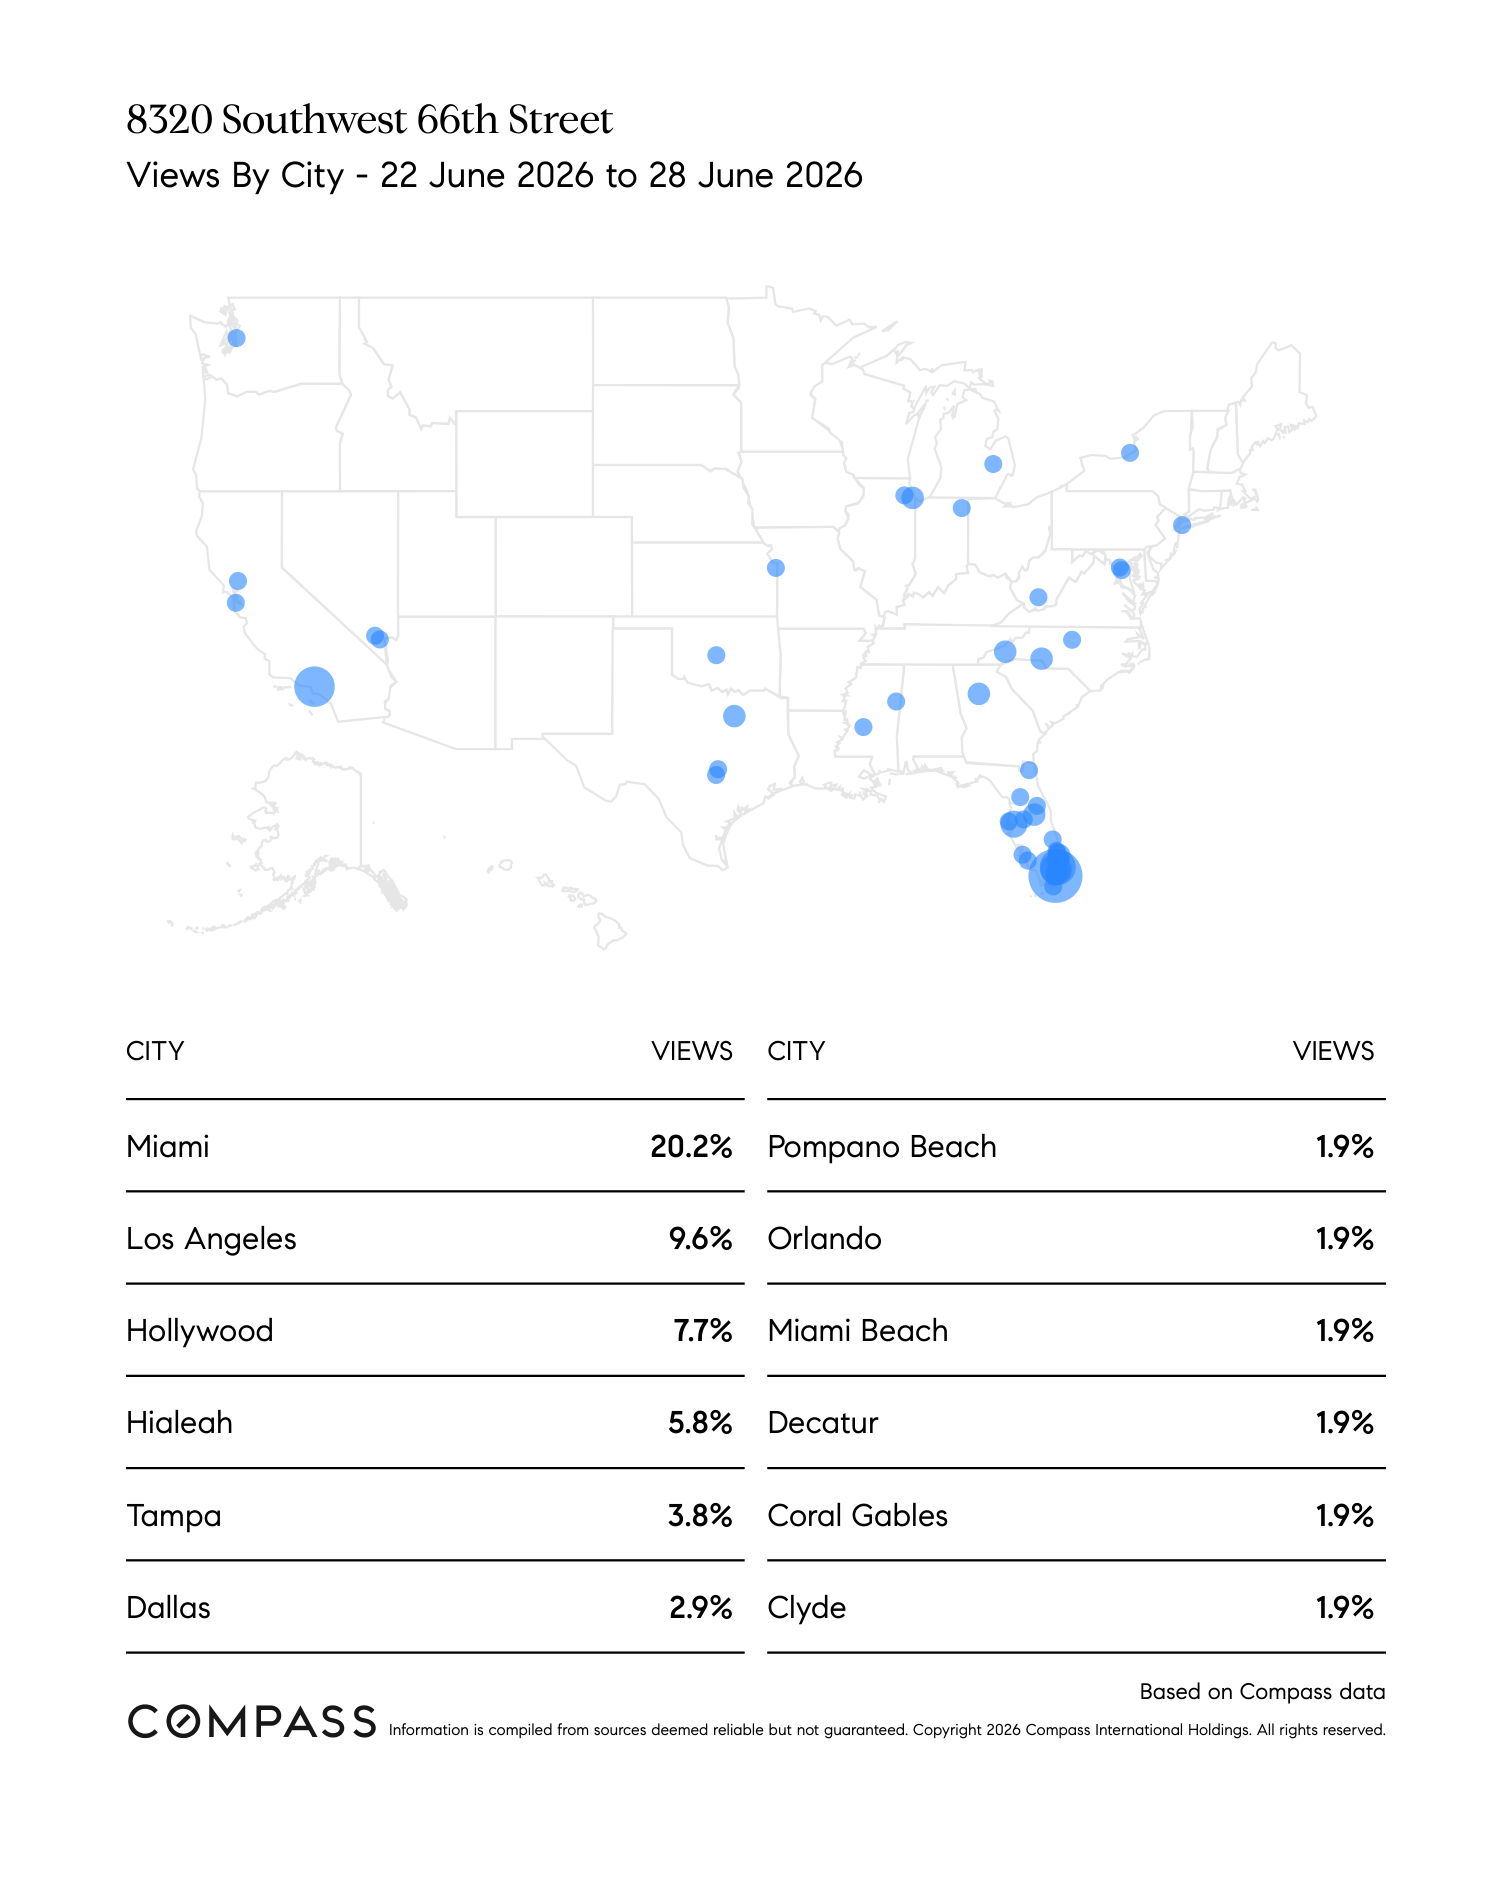
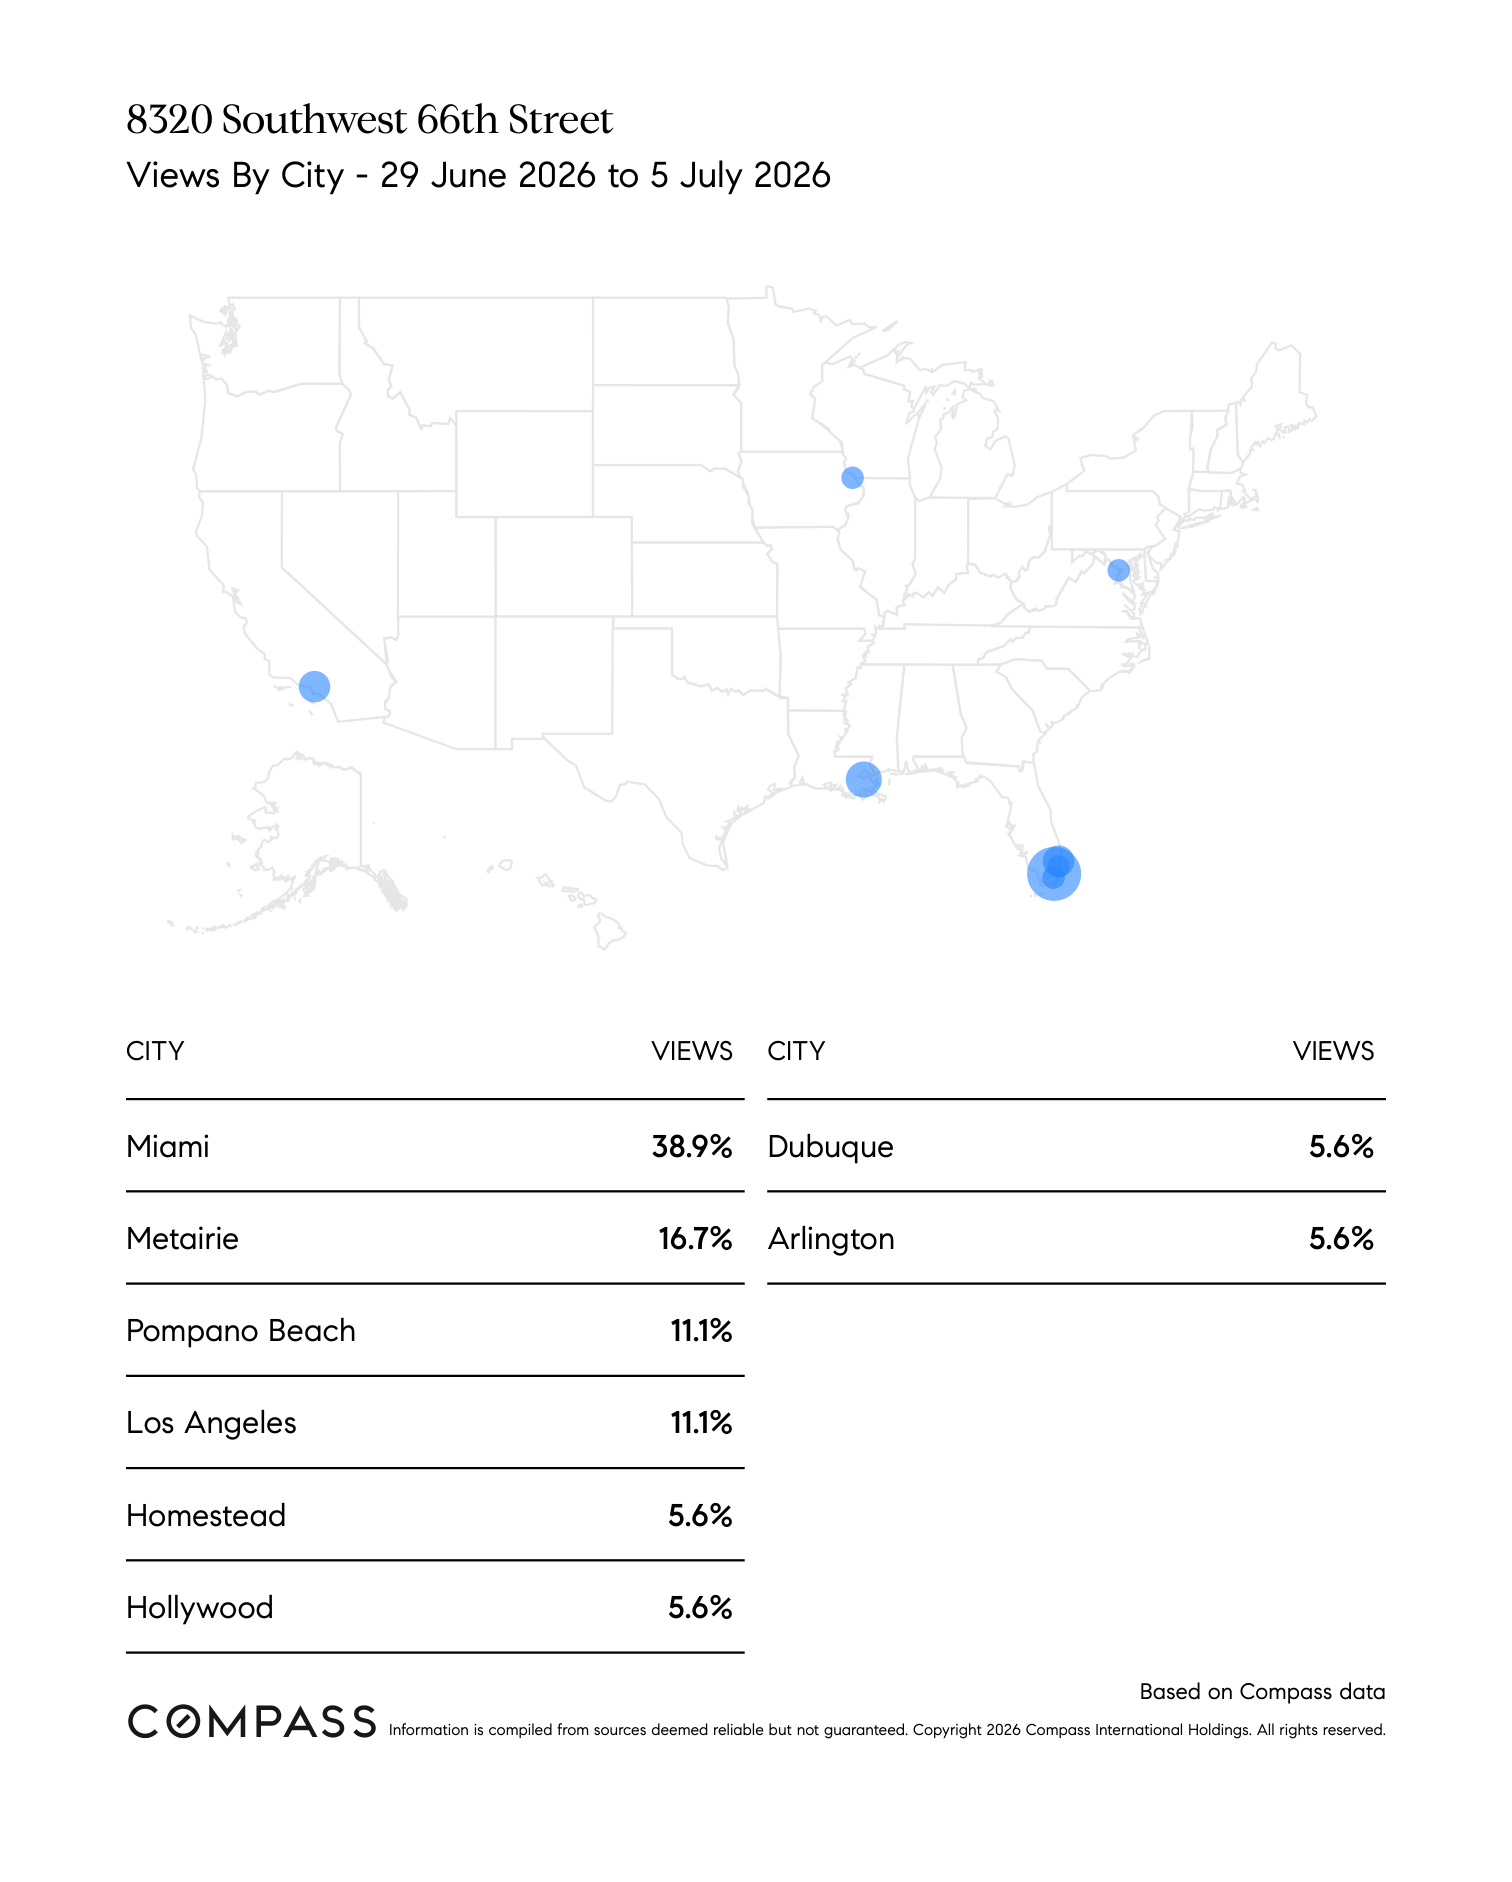
Incremental update: Correct showing feedback for 88 SW 7th St #1012 and update 8320 SW 66th St

diff --git a/8320-sw-66-st/index.html b/8320-sw-66-st/index.html
@@ -398,7 +398,7 @@
                 <div class="meta-item">2 Beds | 2 Baths | 1,030 Sq Ft</div>
                 <div class="meta-item">
                     <svg width="16" height="16" viewBox="0 0 24 24" fill="none" stroke="currentColor" stroke-width="2"><rect x="3" y="4" width="18" height="18" rx="2"/><path d="M16 2v4M8 2v4M3 10h18"/></svg>
-                    Report Period: 22 Jun 2026 - 28 Jun 2026
+                    Report Period: 29 Jun 2026 - 5 Jul 2026
                 </div>
             </div>
         </div>
@@ -423,7 +423,8 @@
                     <div class="card-label">Last 7 Days Views</div>
                     <div class="card-value">
                         
-                        115
+                        
+                        20
                         <span class="card-change">Updated</span>
                     </div>
                 </div>
@@ -453,8 +454,8 @@
                 </div>
                 <div class="table-row">
                     <div class="metric-name">Listing Views (Online)</div>
-                    <div class="last-7">115</div>
-                    <div class="grand-total">230</div>
+                    <div class="last-7">20</div>
+                    <div class="grand-total">250</div>
                 </div>
                 <div class="table-row">
                     <div class="metric-name">Physical Showings</div>
@@ -463,13 +464,13 @@
                 </div>
                 <div class="table-row">
                     <div class="metric-name">Emails Sent (Opened)</div>
-                    <div class="last-7">+3,240</div>
-                    <div class="grand-total">9,427</div>
+                    <div class="last-7">+3,004</div>
+                    <div class="grand-total">12,431</div>
                 </div>
                 <div class="table-row">
                     <div class="metric-name">Social Media Views</div>
-                    <div class="last-7">+190</div>
-                    <div class="grand-total">190</div>
+                    <div class="last-7">+200</div>
+                    <div class="grand-total">390</div>
                 </div>
             </div>
         </div>
@@ -481,7 +482,13 @@
             </div>
             
             <div class="card">
-                                                <div class="feedback-item">
+                                                                <div class="feedback-item">
+                    <div class="feedback-text">
+                        "No showings recorded."
+                        <span class="agent-date" style="display: block; margin-top: 0.5rem; font-style: normal;">— Jun 29 - Jul 5, 2026</span>
+                    </div>
+                </div>
+<div class="feedback-item">
                     <div class="feedback-text">
                         "Although there were no in-person showings last week, we had two prospective buyers express interest in the property and are currently following up with both."
                         <span class="agent-date" style="display: block; margin-top: 0.5rem; font-style: normal;">— Jun 22 - Jun 28, 2026</span>
@@ -504,12 +511,12 @@
             </div>
             
             <div class="card">
-                <img src="property_views_map_clean.png?v=20260629"
-                     alt="Visitor Locations Map"
-                     style="width:100%; border-radius: 8px;"
-                     onerror="this.style.display='none'; this.nextElementSibling.style.display='block'">
+                <img src="property_views_map_clean.png?v=20260706"
+                 alt="Visitor Locations Map"
+                 style="width:100%; border-radius: 8px;"
+                 onerror="this.style.display='none'; this.nextElementSibling.style.display='block'">
                 <div style="display:none; background: rgba(0,0,0,0.05); padding: 3rem; text-align: center; border-radius: 8px; color: var(--text-muted);"><em>Map not available</em></div>
-                <div class="city-stats-grid" style="display: grid; grid-template-columns: 1fr 1fr; gap: 2rem; margin-top: 2rem; padding-top: 2rem; border-top: 1px solid var(--border);"><div style="display: flex; justify-content: space-between; padding: 0.5rem 0; border-bottom: 1px solid rgba(0,0,0,0.05);"><span style="font-weight: 600;">Miami</span><span style="color: var(--accent); font-weight: 700;">20.2%</span></div><div style="display: flex; justify-content: space-between; padding: 0.5rem 0; border-bottom: 1px solid rgba(0,0,0,0.05);"><span style="font-weight: 600;">Los Angeles</span><span style="color: var(--accent); font-weight: 700;">9.6%</span></div><div style="display: flex; justify-content: space-between; padding: 0.5rem 0; border-bottom: 1px solid rgba(0,0,0,0.05);"><span style="font-weight: 600;">Hollywood</span><span style="color: var(--accent); font-weight: 700;">7.7%</span></div><div style="display: flex; justify-content: space-between; padding: 0.5rem 0; border-bottom: 1px solid rgba(0,0,0,0.05);"><span style="font-weight: 600;">Hialeah</span><span style="color: var(--accent); font-weight: 700;">5.8%</span></div><div style="display: flex; justify-content: space-between; padding: 0.5rem 0; border-bottom: 1px solid rgba(0,0,0,0.05);"><span style="font-weight: 600;">Tampa</span><span style="color: var(--accent); font-weight: 700;">3.8%</span></div><div style="display: flex; justify-content: space-between; padding: 0.5rem 0; border-bottom: 1px solid rgba(0,0,0,0.05);"><span style="font-weight: 600;">Dallas</span><span style="color: var(--accent); font-weight: 700;">2.9%</span></div><div style="display: flex; justify-content: space-between; padding: 0.5rem 0; border-bottom: 1px solid rgba(0,0,0,0.05);"><span style="font-weight: 600;">Pompano Beach</span><span style="color: var(--accent); font-weight: 700;">1.9%</span></div><div style="display: flex; justify-content: space-between; padding: 0.5rem 0; border-bottom: 1px solid rgba(0,0,0,0.05);"><span style="font-weight: 600;">Orlando</span><span style="color: var(--accent); font-weight: 700;">1.9%</span></div><div style="display: flex; justify-content: space-between; padding: 0.5rem 0; border-bottom: 1px solid rgba(0,0,0,0.05);"><span style="font-weight: 600;">Miami Beach</span><span style="color: var(--accent); font-weight: 700;">1.9%</span></div><div style="display: flex; justify-content: space-between; padding: 0.5rem 0; border-bottom: 1px solid rgba(0,0,0,0.05);"><span style="font-weight: 600;">Decatur</span><span style="color: var(--accent); font-weight: 700;">1.9%</span></div><div style="display: flex; justify-content: space-between; padding: 0.5rem 0; border-bottom: 1px solid rgba(0,0,0,0.05);"><span style="font-weight: 600;">Coral Gables</span><span style="color: var(--accent); font-weight: 700;">1.9%</span></div><div style="display: flex; justify-content: space-between; padding: 0.5rem 0; border-bottom: 1px solid rgba(0,0,0,0.05);"><span style="font-weight: 600;">Clyde</span><span style="color: var(--accent); font-weight: 700;">1.9%</span></div></div>
+                <div class="city-stats-grid" style="display: grid; grid-template-columns: 1fr 1fr; gap: 2rem; margin-top: 2rem; padding-top: 2rem; border-top: 1px solid var(--border);"><div style="display: flex; justify-content: space-between; padding: 0.5rem 0; border-bottom: 1px solid rgba(0,0,0,0.05);"><span style="font-weight: 600;">Miami</span><span style="color: var(--accent); font-weight: 700;">38.9%</span></div><div style="display: flex; justify-content: space-between; padding: 0.5rem 0; border-bottom: 1px solid rgba(0,0,0,0.05);"><span style="font-weight: 600;">Metairie</span><span style="color: var(--accent); font-weight: 700;">16.7%</span></div><div style="display: flex; justify-content: space-between; padding: 0.5rem 0; border-bottom: 1px solid rgba(0,0,0,0.05);"><span style="font-weight: 600;">Pompano Beach</span><span style="color: var(--accent); font-weight: 700;">11.1%</span></div><div style="display: flex; justify-content: space-between; padding: 0.5rem 0; border-bottom: 1px solid rgba(0,0,0,0.05);"><span style="font-weight: 600;">Los Angeles</span><span style="color: var(--accent); font-weight: 700;">11.1%</span></div><div style="display: flex; justify-content: space-between; padding: 0.5rem 0; border-bottom: 1px solid rgba(0,0,0,0.05);"><span style="font-weight: 600;">Homestead</span><span style="color: var(--accent); font-weight: 700;">5.6%</span></div><div style="display: flex; justify-content: space-between; padding: 0.5rem 0; border-bottom: 1px solid rgba(0,0,0,0.05);"><span style="font-weight: 600;">Hollywood</span><span style="color: var(--accent); font-weight: 700;">5.6%</span></div></div>
             </div>
         </div>
     </main>
@@ -520,7 +527,7 @@
             <p>Compass One | (305) 302-6384 | [email redacted]</p>
         </div>
         <div class="footer-note">
-            Generated on June 29, 2026. Data sourced from Compass Insights & Showing Feedback.
+            Generated on July 6, 2026. Data sourced from Compass Insights & Showing Feedback.
         </div>
     </footer>
 

diff --git a/agents/joanna-jimenez/8320-sw-66-st/index.html b/agents/joanna-jimenez/8320-sw-66-st/index.html
@@ -398,7 +398,7 @@
                 <div class="meta-item">2 Beds | 2 Baths | 1,030 Sq Ft</div>
                 <div class="meta-item">
                     <svg width="16" height="16" viewBox="0 0 24 24" fill="none" stroke="currentColor" stroke-width="2"><rect x="3" y="4" width="18" height="18" rx="2"/><path d="M16 2v4M8 2v4M3 10h18"/></svg>
-                    Report Period: 22 Jun 2026 - 28 Jun 2026
+                    Report Period: 29 Jun 2026 - 5 Jul 2026
                 </div>
             </div>
         </div>
@@ -423,7 +423,8 @@
                     <div class="card-label">Last 7 Days Views</div>
                     <div class="card-value">
                         
-                        115
+                        
+                        20
                         <span class="card-change">Updated</span>
                     </div>
                 </div>
@@ -453,8 +454,8 @@
                 </div>
                 <div class="table-row">
                     <div class="metric-name">Listing Views (Online)</div>
-                    <div class="last-7">115</div>
-                    <div class="grand-total">230</div>
+                    <div class="last-7">20</div>
+                    <div class="grand-total">250</div>
                 </div>
                 <div class="table-row">
                     <div class="metric-name">Physical Showings</div>
@@ -463,13 +464,13 @@
                 </div>
                 <div class="table-row">
                     <div class="metric-name">Emails Sent (Opened)</div>
-                    <div class="last-7">+3,240</div>
-                    <div class="grand-total">9,427</div>
+                    <div class="last-7">+3,004</div>
+                    <div class="grand-total">12,431</div>
                 </div>
                 <div class="table-row">
                     <div class="metric-name">Social Media Views</div>
-                    <div class="last-7">+190</div>
-                    <div class="grand-total">190</div>
+                    <div class="last-7">+200</div>
+                    <div class="grand-total">390</div>
                 </div>
             </div>
         </div>
@@ -481,7 +482,13 @@
             </div>
             
             <div class="card">
-                                                <div class="feedback-item">
+                                                                <div class="feedback-item">
+                    <div class="feedback-text">
+                        "No showings recorded."
+                        <span class="agent-date" style="display: block; margin-top: 0.5rem; font-style: normal;">— Jun 29 - Jul 5, 2026</span>
+                    </div>
+                </div>
+<div class="feedback-item">
                     <div class="feedback-text">
                         "Although there were no in-person showings last week, we had two prospective buyers express interest in the property and are currently following up with both."
                         <span class="agent-date" style="display: block; margin-top: 0.5rem; font-style: normal;">— Jun 22 - Jun 28, 2026</span>
@@ -504,12 +511,12 @@
             </div>
             
             <div class="card">
-                <img src="property_views_map_clean.png?v=20260629"
-                     alt="Visitor Locations Map"
-                     style="width:100%; border-radius: 8px;"
-                     onerror="this.style.display='none'; this.nextElementSibling.style.display='block'">
+                <img src="property_views_map_clean.png?v=20260706"
+                 alt="Visitor Locations Map"
+                 style="width:100%; border-radius: 8px;"
+                 onerror="this.style.display='none'; this.nextElementSibling.style.display='block'">
                 <div style="display:none; background: rgba(0,0,0,0.05); padding: 3rem; text-align: center; border-radius: 8px; color: var(--text-muted);"><em>Map not available</em></div>
-                <div class="city-stats-grid" style="display: grid; grid-template-columns: 1fr 1fr; gap: 2rem; margin-top: 2rem; padding-top: 2rem; border-top: 1px solid var(--border);"><div style="display: flex; justify-content: space-between; padding: 0.5rem 0; border-bottom: 1px solid rgba(0,0,0,0.05);"><span style="font-weight: 600;">Miami</span><span style="color: var(--accent); font-weight: 700;">20.2%</span></div><div style="display: flex; justify-content: space-between; padding: 0.5rem 0; border-bottom: 1px solid rgba(0,0,0,0.05);"><span style="font-weight: 600;">Los Angeles</span><span style="color: var(--accent); font-weight: 700;">9.6%</span></div><div style="display: flex; justify-content: space-between; padding: 0.5rem 0; border-bottom: 1px solid rgba(0,0,0,0.05);"><span style="font-weight: 600;">Hollywood</span><span style="color: var(--accent); font-weight: 700;">7.7%</span></div><div style="display: flex; justify-content: space-between; padding: 0.5rem 0; border-bottom: 1px solid rgba(0,0,0,0.05);"><span style="font-weight: 600;">Hialeah</span><span style="color: var(--accent); font-weight: 700;">5.8%</span></div><div style="display: flex; justify-content: space-between; padding: 0.5rem 0; border-bottom: 1px solid rgba(0,0,0,0.05);"><span style="font-weight: 600;">Tampa</span><span style="color: var(--accent); font-weight: 700;">3.8%</span></div><div style="display: flex; justify-content: space-between; padding: 0.5rem 0; border-bottom: 1px solid rgba(0,0,0,0.05);"><span style="font-weight: 600;">Dallas</span><span style="color: var(--accent); font-weight: 700;">2.9%</span></div><div style="display: flex; justify-content: space-between; padding: 0.5rem 0; border-bottom: 1px solid rgba(0,0,0,0.05);"><span style="font-weight: 600;">Pompano Beach</span><span style="color: var(--accent); font-weight: 700;">1.9%</span></div><div style="display: flex; justify-content: space-between; padding: 0.5rem 0; border-bottom: 1px solid rgba(0,0,0,0.05);"><span style="font-weight: 600;">Orlando</span><span style="color: var(--accent); font-weight: 700;">1.9%</span></div><div style="display: flex; justify-content: space-between; padding: 0.5rem 0; border-bottom: 1px solid rgba(0,0,0,0.05);"><span style="font-weight: 600;">Miami Beach</span><span style="color: var(--accent); font-weight: 700;">1.9%</span></div><div style="display: flex; justify-content: space-between; padding: 0.5rem 0; border-bottom: 1px solid rgba(0,0,0,0.05);"><span style="font-weight: 600;">Decatur</span><span style="color: var(--accent); font-weight: 700;">1.9%</span></div><div style="display: flex; justify-content: space-between; padding: 0.5rem 0; border-bottom: 1px solid rgba(0,0,0,0.05);"><span style="font-weight: 600;">Coral Gables</span><span style="color: var(--accent); font-weight: 700;">1.9%</span></div><div style="display: flex; justify-content: space-between; padding: 0.5rem 0; border-bottom: 1px solid rgba(0,0,0,0.05);"><span style="font-weight: 600;">Clyde</span><span style="color: var(--accent); font-weight: 700;">1.9%</span></div></div>
+                <div class="city-stats-grid" style="display: grid; grid-template-columns: 1fr 1fr; gap: 2rem; margin-top: 2rem; padding-top: 2rem; border-top: 1px solid var(--border);"><div style="display: flex; justify-content: space-between; padding: 0.5rem 0; border-bottom: 1px solid rgba(0,0,0,0.05);"><span style="font-weight: 600;">Miami</span><span style="color: var(--accent); font-weight: 700;">38.9%</span></div><div style="display: flex; justify-content: space-between; padding: 0.5rem 0; border-bottom: 1px solid rgba(0,0,0,0.05);"><span style="font-weight: 600;">Metairie</span><span style="color: var(--accent); font-weight: 700;">16.7%</span></div><div style="display: flex; justify-content: space-between; padding: 0.5rem 0; border-bottom: 1px solid rgba(0,0,0,0.05);"><span style="font-weight: 600;">Pompano Beach</span><span style="color: var(--accent); font-weight: 700;">11.1%</span></div><div style="display: flex; justify-content: space-between; padding: 0.5rem 0; border-bottom: 1px solid rgba(0,0,0,0.05);"><span style="font-weight: 600;">Los Angeles</span><span style="color: var(--accent); font-weight: 700;">11.1%</span></div><div style="display: flex; justify-content: space-between; padding: 0.5rem 0; border-bottom: 1px solid rgba(0,0,0,0.05);"><span style="font-weight: 600;">Homestead</span><span style="color: var(--accent); font-weight: 700;">5.6%</span></div><div style="display: flex; justify-content: space-between; padding: 0.5rem 0; border-bottom: 1px solid rgba(0,0,0,0.05);"><span style="font-weight: 600;">Hollywood</span><span style="color: var(--accent); font-weight: 700;">5.6%</span></div></div>
             </div>
         </div>
     </main>
@@ -520,7 +527,7 @@
             <p>Compass One | (305) 302-6384 | [email redacted]</p>
         </div>
         <div class="footer-note">
-            Generated on June 29, 2026. Data sourced from Compass Insights & Showing Feedback.
+            Generated on July 6, 2026. Data sourced from Compass Insights & Showing Feedback.
         </div>
     </footer>
 

diff --git a/88-sw-7-st-1012/index.html b/88-sw-7-st-1012/index.html
@@ -127,7 +127,7 @@
                 <div class="card">
                     <div class="card-label">Last 7 Days Showings</div>
                     <div class="card-value">
-                        +0
+                        +2
                     </div>
                 </div>
                 <div class="card">
@@ -158,8 +158,8 @@
                 </div>
                 <div class="table-row">
                     <div class="metric-name">Physical Showings</div>
-                    <div class="last-7">+0</div>
-                    <div class="grand-total">9</div>
+                    <div class="last-7">+2</div>
+                    <div class="grand-total">11</div>
                 </div>
                 <div class="table-row">
                     <div class="metric-name">Emails Sent (Opened)</div>
@@ -182,7 +182,7 @@
             <div class="card">
                                                                                 <div class="feedback-item">
                     <div class="feedback-text">
-                        "No showings recorded."
+                        "2 private showings last week. One of the buyers showed strong interest in the property but has yet to submit an offer. Overall, the feedback continues to be very positive—buyers consistently like the home, which is encouraging. We're continuing to follow up with interested parties."
                         <span class="agent-date" style="display: block; margin-top: 0.5rem; font-style: normal;">— Jun 29 - Jul 5, 2026</span>
                     </div>
                 </div>

diff --git a/agents/joanna-jimenez/88-sw-7-st-1012/index.html b/agents/joanna-jimenez/88-sw-7-st-1012/index.html
@@ -127,7 +127,7 @@
                 <div class="card">
                     <div class="card-label">Last 7 Days Showings</div>
                     <div class="card-value">
-                        +0
+                        +2
                     </div>
                 </div>
                 <div class="card">
@@ -158,8 +158,8 @@
                 </div>
                 <div class="table-row">
                     <div class="metric-name">Physical Showings</div>
-                    <div class="last-7">+0</div>
-                    <div class="grand-total">9</div>
+                    <div class="last-7">+2</div>
+                    <div class="grand-total">11</div>
                 </div>
                 <div class="table-row">
                     <div class="metric-name">Emails Sent (Opened)</div>
@@ -182,7 +182,7 @@
             <div class="card">
                                                                                 <div class="feedback-item">
                     <div class="feedback-text">
-                        "No showings recorded."
+                        "2 private showings last week. One of the buyers showed strong interest in the property but has yet to submit an offer. Overall, the feedback continues to be very positive—buyers consistently like the home, which is encouraging. We're continuing to follow up with interested parties."
                         <span class="agent-date" style="display: block; margin-top: 0.5rem; font-style: normal;">— Jun 29 - Jul 5, 2026</span>
                     </div>
                 </div>